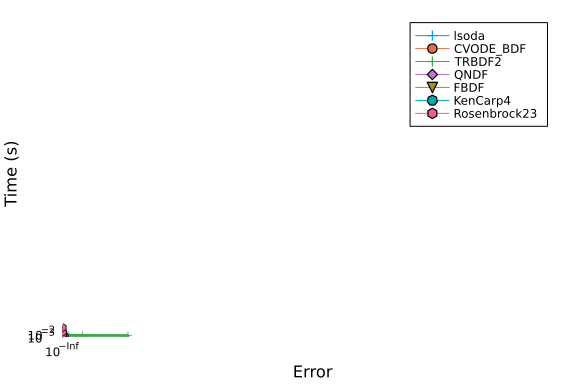
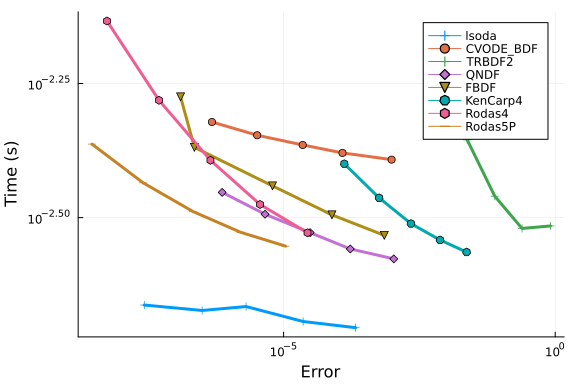
Automatic build\nPublished by build of: https://github.com/SciML/SciMLBenchmarks.jl/commit/f0de0a4782c4a1f77fc2a55ba104b3f571044ecb

diff --git a/markdown/Bio/multistate.md b/markdown/Bio/multistate.md
@@ -20,7 +20,7 @@ using DiffEqBase, OrdinaryDiffEq, Catalyst, ReactionNetworkImporters,
 
 gr()
 const to = TimerOutput()
-tf       = 20.0
+tf       = 0.5
 
 # generate ModelingToolkit ODEs
 @timeit to "Parse Network" prnbng = loadrxnetwork(BNGNetwork(), joinpath(@__DIR__, "Models/multistate.net"))
@@ -40,7 +40,7 @@ Creating species and parameters for evaluating expressions...done
 Parsing and adding reactions...done
 Parsing groups...done
 ODEProblem with uType Vector{Float64} and tType Float64. In-place: true
-timespan: (0.0, 20.0)
+timespan: (0.0, 0.5)
 u0: 9-element Vector{Float64}:
  5360.0
  1160.0
@@ -67,21 +67,21 @@ show(to)
     
                              ───────────────────────   ────────────────────
 ────
-      Tot / % measured:           587ms /  87.6%           43.0MiB /  94.1%
+      Tot / % measured:           46.3s /  95.2%           7.84GiB /  96.7%
     
 
  Section             ncalls     time    %tot     avg     alloc    %tot     
  avg
  ──────────────────────────────────────────────────────────────────────────
 ────
- ODEProb No Jac           1    288ms   56.0%   288ms   22.1MiB   54.7%  22.
-1MiB
- ODEProb SparseJac        1    219ms   42.6%   219ms   17.3MiB   42.8%  17.
-3MiB
- Parse Network            1   4.45ms    0.9%  4.45ms    473KiB    1.1%   47
-3KiB
- Create ODESys            1   2.67ms    0.5%  2.67ms    594KiB    1.4%   59
-4KiB
+ ODEProb No Jac           1    19.6s   44.4%   19.6s   3.30GiB   43.6%  3.3
+0GiB
+ Create ODESys            1    8.68s   19.7%   8.68s   1.93GiB   25.4%  1.9
+3GiB
+ ODEProb SparseJac        1    8.59s   19.5%   8.59s   1.22GiB   16.1%  1.2
+2GiB
+ Parse Network            1    7.21s   16.4%   7.21s   1.13GiB   14.9%  1.1
+3GiB
  ──────────────────────────────────────────────────────────────────────────
 ────
 ```
@@ -128,7 +128,7 @@ given how fast evaluating `f` is:
 ```
 
 ```
-262.701 ns (3 allocations: 976 bytes)
+284.558 ns (3 allocations: 976 bytes)
 ```
 
 
@@ -157,8 +157,8 @@ test_sol  = TestSolution(sol)
 ```
 
 ```
-0.115987 seconds (164.25 k allocations: 8.686 MiB, 83.70% compilation tim
-e)
+0.661055 seconds (886.56 k allocations: 48.532 MiB, 97.91% compilation ti
+me)
 retcode: Success
 Interpolation: 3rd order Hermite
 t: nothing
@@ -181,7 +181,8 @@ setups = [
           Dict(:alg=>QNDF()),
           Dict(:alg=>FBDF()),
           Dict(:alg=>KenCarp4()),
-          Dict(:alg=>Rosenbrock23()),
+          Dict(:alg=>Rodas4()),
+          Dict(:alg=>Rodas5P()),
           ];
 ```
 
@@ -264,19 +265,19 @@ Environment:
 Package Information:
 
 ```
-Status `/cache/build/exclusive-amdci3-0/julialang/scimlbenchmarks-dot-jl/benchmarks/Bio/Project.toml`
+Status `/cache/build/exclusive-amdci1-0/julialang/scimlbenchmarks-dot-jl/benchmarks/Bio/Project.toml`
   [6e4b80f9] BenchmarkTools v1.3.1
   [479239e8] Catalyst v12.3.0
 ⌃ [2b5f629d] DiffEqBase v6.105.0
   [f3b72e0c] DiffEqDevTools v2.32.0
-  [033835bb] JLD2 v0.4.24
+⌃ [033835bb] JLD2 v0.4.24
   [7f56f5a3] LSODA v0.7.0
 ⌃ [7ed4a6bd] LinearSolve v1.26.0
-  [961ee093] ModelingToolkit v8.26.1
+⌃ [961ee093] ModelingToolkit v8.26.1
   [54ca160b] ODEInterface v0.5.0
   [09606e27] ODEInterfaceDiffEq v3.11.0
   [1dea7af3] OrdinaryDiffEq v6.28.0
-  [91a5bcdd] Plots v1.35.2
+⌃ [91a5bcdd] Plots v1.35.2
   [b4db0fb7] ReactionNetworkImporters v0.13.4
   [31c91b34] SciMLBenchmarks v0.1.1
   [c3572dad] Sundials v4.10.1
@@ -287,7 +288,7 @@ Info Packages marked with ⌃ have new versions available and may be upgradable.
 And the full manifest:
 
 ```
-Status `/cache/build/exclusive-amdci3-0/julialang/scimlbenchmarks-dot-jl/benchmarks/Bio/Manifest.toml`
+Status `/cache/build/exclusive-amdci1-0/julialang/scimlbenchmarks-dot-jl/benchmarks/Bio/Manifest.toml`
 ⌃ [c3fe647b] AbstractAlgebra v0.27.4
   [1520ce14] AbstractTrees v0.4.2
   [79e6a3ab] Adapt v3.4.0
@@ -386,7 +387,7 @@ Status `/cache/build/exclusive-amdci3-0/julialang/scimlbenchmarks-dot-jl/benchma
   [92d709cd] IrrationalConstants v0.1.1
   [42fd0dbc] IterativeSolvers v0.9.2
   [82899510] IteratorInterfaceExtensions v1.0.0
-  [033835bb] JLD2 v0.4.24
+⌃ [033835bb] JLD2 v0.4.24
   [1019f520] JLFzf v0.1.5
   [692b3bcd] JLLWrappers v1.4.1
   [682c06a0] JSON v0.21.3
@@ -404,7 +405,7 @@ Status `/cache/build/exclusive-amdci3-0/julialang/scimlbenchmarks-dot-jl/benchma
 ⌃ [7ed4a6bd] LinearSolve v1.26.0
   [2ab3a3ac] LogExpFunctions v0.3.18
   [e6f89c97] LoggingExtras v0.4.9
-  [bdcacae8] LoopVectorization v0.12.132
+⌃ [bdcacae8] LoopVectorization v0.12.132
   [1914dd2f] MacroTools v0.5.10
   [d125e4d3] ManualMemory v0.1.8
   [739be429] MbedTLS v1.1.6
@@ -412,11 +413,11 @@ Status `/cache/build/exclusive-amdci3-0/julialang/scimlbenchmarks-dot-jl/benchma
   [e9d8d322] Metatheory v1.3.5
 ⌃ [128add7d] MicroCollections v0.1.2
   [e1d29d7a] Missings v1.0.2
-  [961ee093] ModelingToolkit v8.26.1
+⌃ [961ee093] ModelingToolkit v8.26.1
   [46d2c3a1] MuladdMacro v0.2.2
   [102ac46a] MultivariatePolynomials v0.4.6
   [ffc61752] Mustache v1.0.14
-  [d8a4904e] MutableArithmetics v1.0.4
+⌃ [d8a4904e] MutableArithmetics v1.0.4
   [d41bc354] NLSolversBase v7.8.2
   [2774e3e8] NLsolve v4.5.1
   [77ba4419] NaNMath v1.0.1
@@ -434,7 +435,7 @@ Status `/cache/build/exclusive-amdci3-0/julialang/scimlbenchmarks-dot-jl/benchma
   [b98c9c47] Pipe v1.3.0
   [ccf2f8ad] PlotThemes v3.0.0
   [995b91a9] PlotUtils v1.3.1
-  [91a5bcdd] Plots v1.35.2
+⌃ [91a5bcdd] Plots v1.35.2
   [e409e4f3] PoissonRandom v0.4.1
 ⌃ [f517fe37] Polyester v0.6.15
   [1d0040c9] PolyesterWeave v0.1.10
@@ -448,7 +449,7 @@ Status `/cache/build/exclusive-amdci3-0/julialang/scimlbenchmarks-dot-jl/benchma
   [e6cf234a] RandomNumbers v1.5.3
   [b4db0fb7] ReactionNetworkImporters v0.13.4
   [3cdcf5f2] RecipesBase v1.3.0
-  [01d81517] RecipesPipeline v0.6.6
+⌃ [01d81517] RecipesPipeline v0.6.6
   [731186ca] RecursiveArrayTools v2.32.0
   [f2c3362d] RecursiveFactorization v0.2.12
   [189a3867] Reexport v1.2.2
@@ -462,7 +463,7 @@ Status `/cache/build/exclusive-amdci3-0/julialang/scimlbenchmarks-dot-jl/benchma
   [3cdde19b] SIMDDualNumbers v0.1.1
   [94e857df] SIMDTypes v0.1.0
   [476501e8] SLEEFPirates v0.6.36
-  [0bca4576] SciMLBase v1.59.4
+⌃ [0bca4576] SciMLBase v1.59.4
   [31c91b34] SciMLBenchmarks v0.1.1
   [6c6a2e73] Scratch v1.1.1
 ⌅ [efcf1570] Setfield v0.8.2
